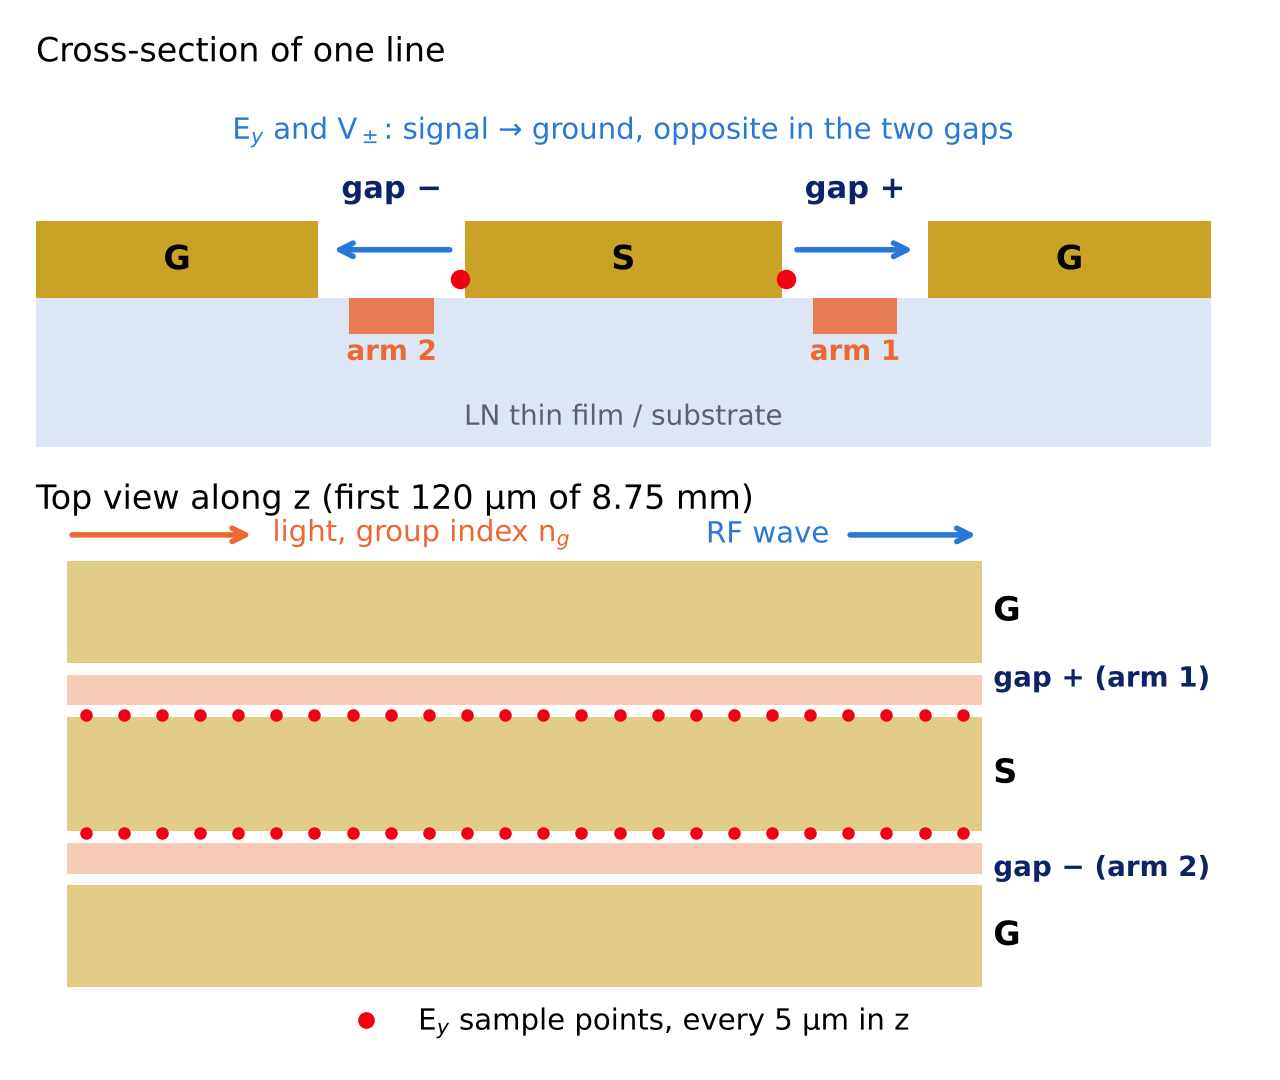
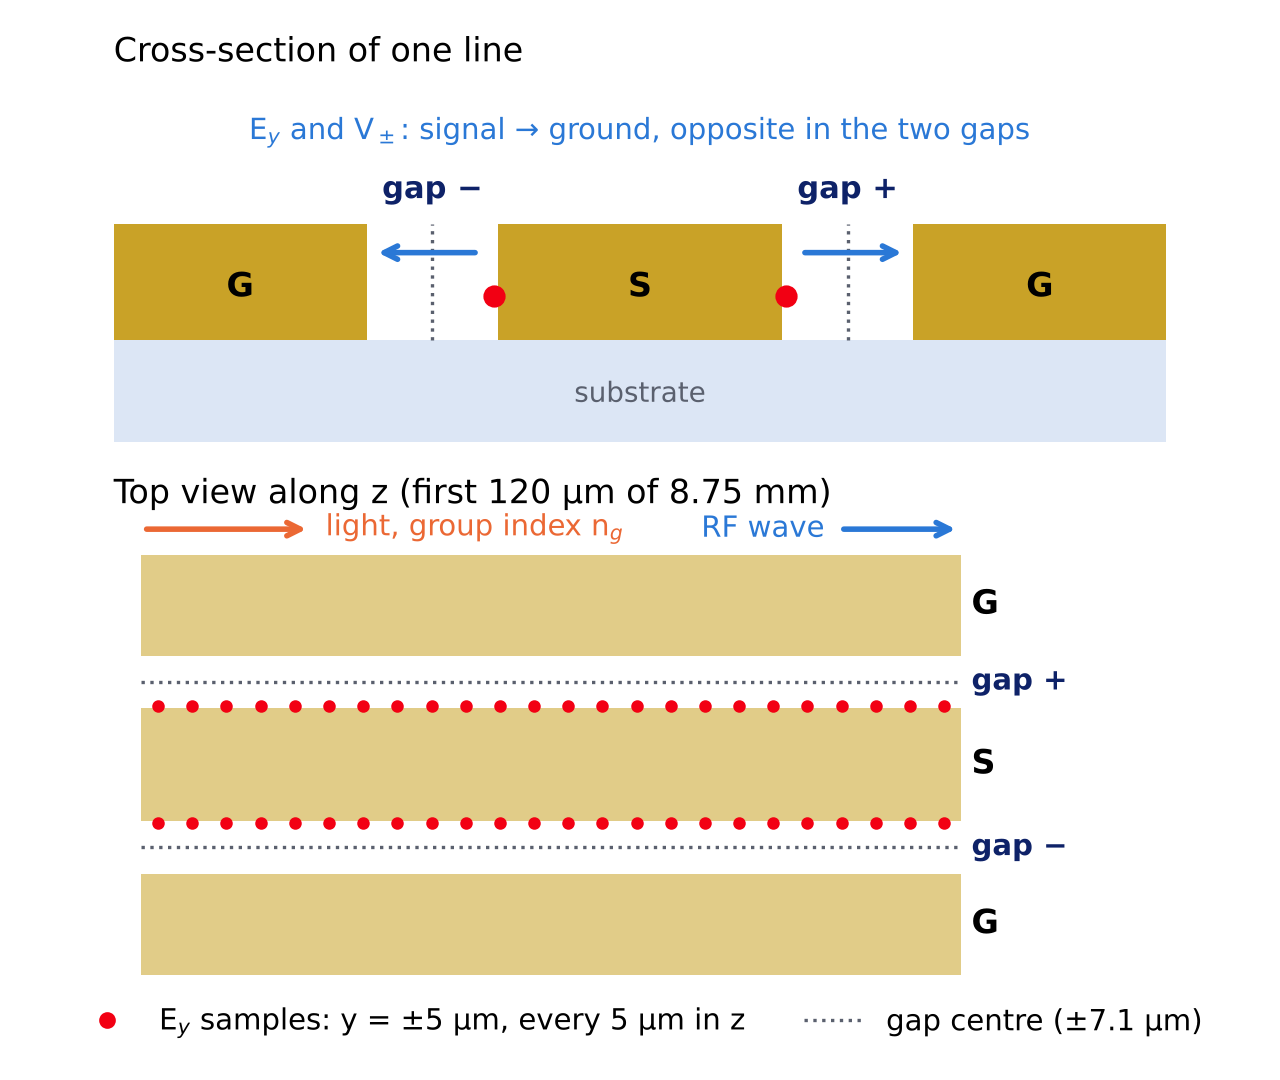
Istanbul deck source: slide 5 figure shows the exported sample points, no waveguide
Claude-Session: https://claude.ai/code/session_01PF7RKNjFsSkyjm1syGCUrV

diff --git a/docs/cst/xtalk/deck/slide5_fig.py b/docs/cst/xtalk/deck/slide5_fig.py
@@ -1,5 +1,5 @@
-"""Slide 5 (EO crosstalk from fields): sketch of one Istanbul line with its two gaps, the optical arms and the field
-sample points. Cross-section (top) and top view along the line (bottom). Not to scale vertically.
+"""Slide 5 (EO crosstalk from fields): sketch of one Istanbul line with its two gaps and the field sample points as
+exported (no optical waveguide in the simulated model). Cross-section (top) and top view along the line (bottom). Not to scale vertically.
 Geometry from the runs: signal edge at 4.85 um from the line centre, gap 4.85..9.35 um, samples at y = +-5 um,
 every 5 um in z. Output: istanbul_img/eo_sampling.png"""
 import os
@@ -11,22 +11,21 @@ NAVY, RED, GREY, ORANGE, BLUE, MUTED = "#0E2268", "#F20013", "#9AA0AC", "#EB6834
 METAL, LN = "#C9A227", "#DCE6F5"
 plt.rcParams.update({"font.family": "DejaVu Sans", "font.size": 12})
 fig, ax = plt.subplots(2, 1, figsize=(6.4, 5.4), gridspec_kw=dict(height_ratios=[1, 1.25]))
-S, G2, GW = 4.85, 9.35, 18.0            # signal half-width, outer gap edge, ground extent (um)
+S, G2, GW = 4.85, 9.35, 18.0            # signal half-width, ground edge, ground extent (um), from the run notes
+YS, YC = 5.0, (4.85 + 9.35) / 2         # sample points (export grid) and gap centre (um from the line centre)
 
-# cross-section: y horizontal, height vertical
-a = ax[0]; a.set_xlim(-GW, GW); a.set_ylim(-2.3, 3.4); a.axis("off")
-a.add_patch(Rectangle((-GW, -2.3), 2 * GW, 2.3, fc=LN, ec="none"))
-a.text(0, -1.95, "LN thin film / substrate", ha="center", fontsize=10, color=MUTED)
+# cross-section: y horizontal, height vertical (no optical waveguide in the simulated model)
+a = ax[0]; a.set_xlim(-GW, GW); a.set_ylim(-1.4, 3.6); a.axis("off")
+a.add_patch(Rectangle((-GW, -1.4), 2 * GW, 1.4, fc=LN, ec="none"))
+a.text(0, -0.85, "substrate", ha="center", fontsize=10, color=MUTED)
 for x0, x1, lab in ((-GW, -G2, "G"), (-S, S, "S"), (G2, GW, "G")):
-    a.add_patch(Rectangle((x0, 0), x1 - x0, 1.2, fc=METAL, ec="none")); a.text((x0 + x1) / 2, 0.45, lab, ha="center", fontsize=12, weight="bold")
-for sgn, lab, arm in ((1, "gap +", "arm 1"), (-1, "gap −", "arm 2")):
-    c = sgn * (S + G2) / 2
-    a.add_patch(Rectangle((c - 1.3, -0.55), 2.6, 0.55, fc=ORANGE, ec="none", alpha=0.85))
-    a.text(c, -0.95, arm, ha="center", fontsize=10, color=ORANGE, weight="bold")
-    a.annotate("", xy=(sgn * (G2 - 0.3), 0.75), xytext=(sgn * (S + 0.3), 0.75), arrowprops=dict(arrowstyle="->", color=BLUE, lw=2))
-    a.text(c, 1.55, lab, ha="center", fontsize=11, color=NAVY, weight="bold")
-    a.plot(sgn * 5.0, 0.3, "o", color=RED, ms=6, zorder=5)
-a.text(0, 2.45, "E$_y$ and V$_\\pm$: signal → ground, opposite in the two gaps", ha="center", fontsize=10.5, color=BLUE)
+    a.add_patch(Rectangle((x0, 0), x1 - x0, 1.6, fc=METAL, ec="none")); a.text((x0 + x1) / 2, 0.6, lab, ha="center", fontsize=12, weight="bold")
+for sgn, lab in ((1, "gap +"), (-1, "gap −")):
+    a.annotate("", xy=(sgn * (G2 - 0.2), 1.2), xytext=(sgn * (S + 0.6), 1.2), arrowprops=dict(arrowstyle="->", color=BLUE, lw=2))
+    a.text(sgn * YC, 1.95, lab, ha="center", fontsize=11, color=NAVY, weight="bold")
+    a.plot([sgn * YC] * 2, [0, 1.6], ":", color=MUTED, lw=1.2)
+    a.plot(sgn * YS, 0.6, "o", color=RED, ms=7, zorder=5)
+a.text(0, 2.75, "E$_y$ and V$_\\pm$: signal → ground, opposite in the two gaps", ha="center", fontsize=10.5, color=BLUE)
 a.set_title("Cross-section of one line", fontsize=12, loc="left")
 
 # top view: z horizontal (um), y vertical
@@ -34,19 +33,19 @@ b = ax[1]; Z = 120; b.set_xlim(-4, Z + 30); b.set_ylim(-GW, GW + 3); b.axis("off
 for y0, y1 in ((-GW, -G2), (-S, S), (G2, GW)):
     b.add_patch(Rectangle((0, y0), Z, y1 - y0, fc=METAL, ec="none", alpha=0.55))
 for sgn in (1, -1):
-    c = sgn * (S + G2) / 2
-    b.add_patch(Rectangle((0, c - 1.3), Z, 2.6, fc=ORANGE, ec="none", alpha=0.35))
-    zz = np.arange(2.5, Z, 5.0); b.plot(zz, np.full_like(zz, sgn * 5.0), "o", color=RED, ms=3.5, zorder=5)
-b.text(Z + 1.5, 8.0, "gap + (arm 1)", va="center", fontsize=10, color=NAVY, weight="bold")
-b.text(Z + 1.5, -8.0, "gap − (arm 2)", va="center", fontsize=10, color=NAVY, weight="bold")
+    zz = np.arange(2.5, Z, 5.0); b.plot(zz, np.full_like(zz, sgn * YS), "o", color=RED, ms=3.5, zorder=5)
+    b.plot([0, Z], [sgn * YC] * 2, ":", color=MUTED, lw=1.2)
+b.text(Z + 1.5, 7.1, "gap +", va="center", fontsize=10.5, color=NAVY, weight="bold")
+b.text(Z + 1.5, -7.1, "gap −", va="center", fontsize=10.5, color=NAVY, weight="bold")
 b.text(Z + 1.5, 0, "S", va="center", fontsize=12, weight="bold"); b.text(Z + 1.5, 13.7, "G", va="center", fontsize=12, weight="bold")
 b.text(Z + 1.5, -13.7, "G", va="center", fontsize=12, weight="bold")
 b.annotate("", xy=(25, GW + 2.2), xytext=(0, GW + 2.2), arrowprops=dict(arrowstyle="->", color=ORANGE, lw=2))
 b.text(27, GW + 2.2, "light, group index n$_g$", va="center", fontsize=10.5, color=ORANGE)
 b.annotate("", xy=(Z, GW + 2.2), xytext=(Z - 18, GW + 2.2), arrowprops=dict(arrowstyle="->", color=BLUE, lw=2))
 b.text(Z - 20, GW + 2.2, "RF wave", va="center", ha="right", fontsize=10.5, color=BLUE)
-b.plot([], [], "o", color=RED, ms=5, label="E$_y$ sample points, every 5 µm in z")
-b.legend(frameon=False, fontsize=10.5, loc="lower center", bbox_to_anchor=(0.5, -0.17))
+b.plot([], [], "o", color=RED, ms=5, label="E$_y$ samples: y = ±5 µm, every 5 µm in z")
+b.plot([], [], ":", color=MUTED, lw=1.2, label="gap centre (±7.1 µm)")
+b.legend(frameon=False, fontsize=10.5, loc="lower center", bbox_to_anchor=(0.5, -0.2), ncol=2)
 b.set_title("Top view along z (first 120 µm of 8.75 mm)", fontsize=12, loc="left")
 fig.tight_layout(); fig.savefig(os.path.join(OUT, "eo_sampling.png"), dpi=200); plt.close(fig)
 

diff --git a/docs/cst/xtalk/deck/build_istanbul.py b/docs/cst/xtalk/deck/build_istanbul.py
@@ -139,7 +139,7 @@ card(s, 7.35, 5.55, 5.5, 1.35, "Consequence", ["V(z) of both lines is taken from
 # 5 ---------------------------------------------------------------- EO computation
 s = new(); title(s, "EO crosstalk from full-wave fields", "CST time-domain solver; E_{y} sampled in both gaps of both lines, every 5 µm along the line")
 fig(s, "eo_sampling.png", 0.5, 1.5, 5.6, 4.73, "One line: two gaps, the optical arm in each gap and the field sample points")
-text(s, 0.5, 6.3, 5.6, 0.65, "Gap voltage V_{±} ∝ E_{y} at the sample points; same points in both lines, so the constant cancels in X_{EO}. Linear Pockels effect, n_{g} = 2.27, no optical loss.", size=11, color=MUTED)
+text(s, 0.5, 6.3, 5.6, 0.65, "V_{±} ∝ E_{y} at the sample points, next to the signal edge (export grid of line B; line A re-exported at the same points, so the constant cancels in X_{EO}). Linear Pockels effect, n_{g} = 2.27, no optical loss.", size=11, color=MUTED)
 EQK = 0.62 / 200     # inches per pixel of the equation images (same scale for all)
 def eq(name, x, y):
     H = Image.open(os.path.join(IMG, name + ".png")).size[1]; eqimg(s, name, x, y, H * EQK); return y + H * EQK
